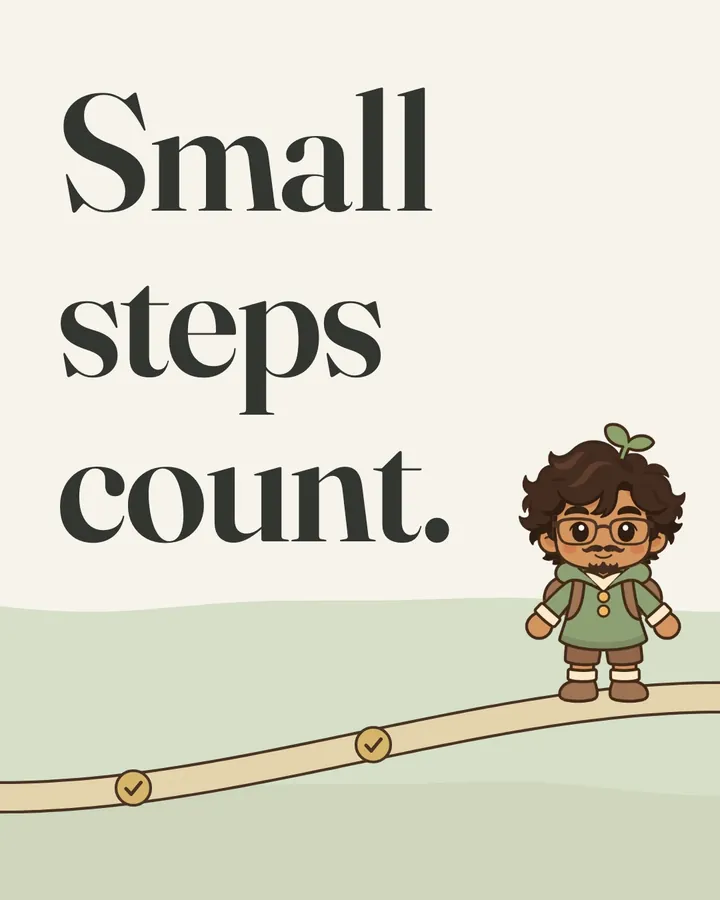
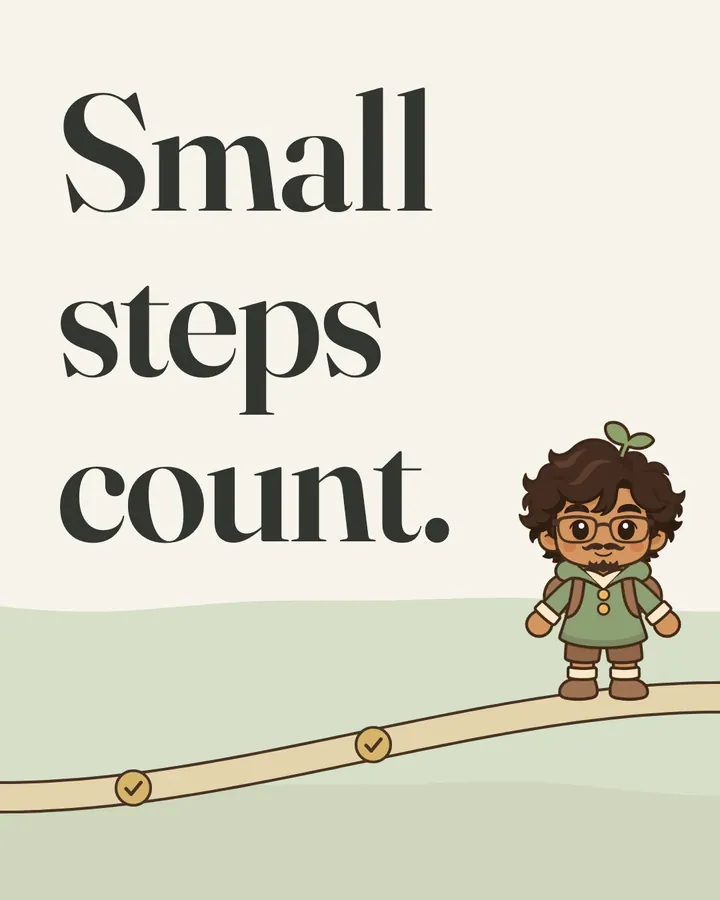
Poster from the complete hook, Privacy section out of the page, owner set
- Hero posters and Open Graph image from frame 66, after "Small steps count." has landed
- Privacy section removed from index.html and main.js; kept in docs/privacy-section.html with
  how to add it back after the network check
- owner: Prasanna-KS-85, so live mode links to that account's latest release; still "soon"
- Screenshot script no longer rewinds videos; adds a hero-only mode

Changed region(s): [[0.7333, 0.4667, 0.9472, 0.8089], [0.7639, 0.4978, 0.7944, 0.5289], [0.7028, 0.56, 0.7333, 0.5911]]

diff --git a/assets/js/main.js b/assets/js/main.js
@@ -1,4 +1,4 @@
-// Little Steps site: the download state, the optional Privacy section, and the videos.
+// Little Steps site: the download state and the videos.
 // No network calls, no storage, no cookies.
 (function () {
   'use strict';
@@ -11,7 +11,7 @@
     if (config.download !== 'live') return; // the HTML already shows the "soon" state
     var url =
       'https://github.com/' +
-      encodeURIComponent(config.owner || 'OWNER') +
+      encodeURIComponent(config.owner || 'Prasanna-KS-85') +
       '/little-steps-site/releases/latest/download/Little-Steps.dmg';
     document.querySelectorAll('[data-download]').forEach(function (soon) {
       var link = document.createElement('a');
@@ -21,14 +21,6 @@
       link.setAttribute('data-download', '');
       soon.replaceWith(link);
     });
-  }
-
-  // ------------------------------------------------------------ privacy section
-  function setupPrivacy() {
-    if (config.privacy !== true) return;
-    var tpl = document.getElementById('privacy-template');
-    if (!tpl) return;
-    tpl.replaceWith(tpl.content.cloneNode(true));
   }
 
   // ------------------------------------------------------------ videos
@@ -120,7 +112,6 @@
   }
 
   setupDownload();
-  setupPrivacy();
   setupHero();
   setupLoops();
 })();

diff --git a/assets/js/config.js b/assets/js/config.js
@@ -1,12 +1,13 @@
 // The site's switches. Change a value here, nothing else.
 //
 // download: 'soon' shows a disabled "Coming soon" button.
-//           'live' links every Download button to the latest GitHub release.
-// owner:    the GitHub account that holds the little-steps-site repository (placeholder until then).
-// privacy:  the Privacy section ("No account. No tracking. Your day stays on your Mac.") stays off
-//           until the network check has passed (docs/site-open-items.md).
+//           'live' links every Download button to
+//           https://github.com/Prasanna-KS-85/little-steps-site/releases/latest/download/Little-Steps.dmg
+// owner:    the GitHub account that holds the little-steps-site repository.
+//
+// The Privacy section is not a switch: it is not in the page until the network check has passed.
+// How to add it then: docs/privacy-section.html.
 window.LITTLE_STEPS_CONFIG = {
   download: 'soon',
-  owner: 'OWNER',
-  privacy: false,
+  owner: 'Prasanna-KS-85',
 };

diff --git a/docs/privacy-section.html b/docs/privacy-section.html
@@ -1,0 +1,20 @@
+<!--
+  Privacy section for index.html. NOT SHIPPED: it stays out of the page until the network check has
+  passed (docs/site-open-items.md).
+
+  To add it back:
+  1. Copy the <section> below into index.html, in place of the comment
+     "<!-- 5. Privacy: not on the page ... -->", which sits between the Rewards and Install sections.
+  2. That's all. The styles are already in assets/css/site.css (.section--follow, .privacy-card),
+     and no script is involved.
+
+  To take it off again, delete the section from index.html.
+-->
+<section class="section section--follow" id="privacy" aria-labelledby="privacy-title">
+  <div class="wrap">
+    <div class="privacy-card">
+      <span class="eyebrow">Privacy</span>
+      <h2 id="privacy-title">No account. No tracking. Your day stays on your Mac.</h2>
+    </div>
+  </div>
+</section>

diff --git a/index.html b/index.html
@@ -259,17 +259,7 @@
         </div>
       </section>
 
-      <!-- 5. Privacy: off until the network check passes (assets/js/config.js, privacy: true). -->
-      <template id="privacy-template">
-        <section class="section section--follow" id="privacy" aria-labelledby="privacy-title">
-          <div class="wrap">
-            <div class="privacy-card">
-              <span class="eyebrow">Privacy</span>
-              <h2 id="privacy-title">No account. No tracking. Your day stays on your Mac.</h2>
-            </div>
-          </div>
-        </section>
-      </template>
+      <!-- 5. Privacy: not on the page until the network check passes (docs/privacy-section.html). -->
 
       <!-- 6. Install and first open -->
       <section class="section section--sage" id="install" aria-labelledby="install-title">

diff --git a/tools/build_assets.py b/tools/build_assets.py
@@ -32,7 +32,7 @@ FPS = 30
 # privacy line ("No account. No tracking...") and then a "[site]" placeholder in the lockup. The
 # privacy claim waits for the network check (docs/site-open-items.md), so it is cut from the loop.
 HERO_END_FRAME = 1174
-POSTER_FRAME = 100  # the hook: "Small steps count." has landed, the companion on the path
+POSTER_FRAME = 66  # the hook: all three words of "Small steps count." have landed (60), before the wave (70)
 
 
 def run(*args: str) -> None:
@@ -95,6 +95,10 @@ def hero() -> None:
     common_v = ["-c:v", "libx264", "-preset", "veryslow", "-profile:v", "high", "-pix_fmt", "yuv420p", "-movflags", "+faststart"]
     ff("-i", str(FILM_169), "-t", dur, "-vf", "scale=1280:720:flags=lanczos", *common_v, "-crf", "25", *common_a, str(VID / "hero-16x9.mp4"))
     ff("-i", str(FILM_45), "-t", dur, "-vf", "scale=720:900:flags=lanczos", *common_v, "-crf", "25", *common_a, str(VID / "hero-4x5.mp4"))
+    hero_posters()
+
+
+def hero_posters() -> None:
     with tempfile.TemporaryDirectory() as tmp:
         for src, tag, size, og in [(FILM_169, "16x9", (1280, 720), True), (FILM_45, "4x5", (720, 900), False)]:
             png = Path(tmp) / f"{tag}.png"
@@ -138,8 +142,13 @@ def loops() -> None:
 
 
 def main() -> None:
+    import sys
+
     for d in (IMG, VID, ICO):
         d.mkdir(parents=True, exist_ok=True)
+    if sys.argv[1:] == ["posters"]:  # only the hero posters and the Open Graph image
+        hero_posters()
+        return
     icons()
     captures()
     hero()

diff --git a/docs/site-open-items.md b/docs/site-open-items.md
@@ -5,11 +5,8 @@ Each one names what would close it.
 
 ## Waiting on a check
 
-1. **Privacy section is off.** The page has the section ("No account. No tracking. Your day stays on
-   your Mac.") inside a `<template>` in `index.html`. It does not render and it is not in the
-   accessibility tree, but it is in the page source. It goes live with `privacy: true` in
-   `assets/js/config.js`, once the network check has passed. If even the source must not carry it until
-   then, delete the template and add it back later.
+1. **Privacy section is not in the page.** Its text is not in any shipped file. The section and the
+   steps to add it back are in `docs/privacy-section.html`; add it once the network check has passed.
 2. **The hero film is cut at 39.1 s, not the full 45.3 s.** From about frame 1176 the v2 film shows the
    same privacy line, and its lockup shows a literal `[site]` placeholder. The loop stops at frame
    1174, the end of the yawn (`HERO_END_FRAME` in `tools/build_assets.py`). To use the full film, the
@@ -24,13 +21,13 @@ Each one names what would close it.
    docs gives a price; the answer follows from the download being a plain GitHub release link. Please
    confirm, or change the answer in `index.html`.
 5. **Release asset name.** Live mode links to
-   `https://github.com/OWNER/little-steps-site/releases/latest/download/Little-Steps.dmg`. The build
-   makes `Little Steps-1.0.0-arm64.dmg`, so the release asset has to be uploaded (or renamed) as
-   `Little-Steps.dmg`, or that link will 404. `OWNER` is still a placeholder (`owner` in `config.js`).
+   `https://github.com/Prasanna-KS-85/little-steps-site/releases/latest/download/Little-Steps.dmg`. The
+   build makes `Little Steps-1.0.0-arm64.dmg`, so the release asset has to be uploaded (or renamed) as
+   `Little-Steps.dmg`, or that link will 404.
 6. **Host and site address.** `og:image` is a relative URL (`og-image.jpg`), and most link previews
    need an absolute one, so set it once the domain is known. `404.html` uses root paths (`/assets/…`):
    these work on Vercel or a custom domain, but not on a GitHub Pages project path
-   (`OWNER.github.io/little-steps-site/`).
+   (`prasanna-ks-85.github.io/little-steps-site/`).
 7. **Headers at the host.** The page sets a strict Content-Security-Policy in a `<meta>` tag (self
    only). `frame-ancestors` and other headers can only be set by the host; add them when deploying.
 8. **No-JS download state.** The download state is applied by `assets/js/main.js`. Without JavaScript

diff --git a/docs/checks.md b/docs/checks.md
@@ -1,4 +1,4 @@
-# Checks (27 November 2026)
+# Checks (27 November 2026, re-run after the poster, Privacy and owner fixes)
 
 Run against `python3 -m http.server 8765 --bind 127.0.0.1`, using headless Google Chrome driven by
 `tools/shoot.mjs` (DevTools protocol, a throwaway profile, cache disabled).
@@ -7,11 +7,17 @@ Run against `python3 -m http.server 8765 --bind 127.0.0.1`, using headless Googl
 
 - `docs/screens/home-390.png`, `home-768.png`, `home-1440.png`
 - `docs/screens/404-390.png`, `404-1440.png`
+- Hero only, as a visitor sees it 3 s after load (`--hero`): `hero-390.png` (the film playing),
+  `hero-1440.png` (the poster; the film starts once you scroll it into view), and
+  `hero-reduced-390.png`, `hero-reduced-1440.png` (reduced motion: the poster, nothing plays)
 
-The checks also covered reduced motion, the 404 page and live mode with Privacy on (screenshots in
-the session scratchpad, not committed). For live mode, `config.js` was switched to `download: 'live'`
-and `privacy: true` for one run and then restored. That run showed the "Download for Mac" link and the
-Privacy section.
+The hero posters are frame 66 of the film, after all three words of "Small steps count." have landed
+(frame 60) and before the wave (70). The half-drawn "Small" in the first screenshots was the video's
+own frame 0, because the screenshot script used to rewind the videos; it no longer does.
+
+Live mode was checked in the first run (`download: 'live'` for one run, then restored), which showed
+the "Download for Mac" link. The Privacy section is no longer in any shipped file: the served
+`index.html` contains no "tracking" text (`docs/privacy-section.html` holds it).
 
 ## Every URL the page loads
 

diff --git a/README.md b/README.md
@@ -18,7 +18,9 @@ Then open http://127.0.0.1:8765/ and stop the server with Ctrl+C when done.
 - `download`: `'soon'` (a disabled "Coming soon" button) or `'live'` (links to the latest GitHub
   release, `Little-Steps.dmg`)
 - `owner`: the GitHub account in that link
-- `privacy`: shows the Privacy section; keep it `false` until the network check has passed
+
+The Privacy section is not in the page. It goes in by hand once the network check has passed: see
+`docs/privacy-section.html`.
 
 ## Files
 
@@ -30,7 +32,7 @@ Then open http://127.0.0.1:8765/ and stop the server with Ctrl+C when done.
 | `assets/fonts/`          | Fraunces and Nunito from the app, with their SIL OFL 1.1 licence texts      |
 | `assets/img`, `video`    | Built by `tools/build_assets.py` from the app and launch repos (read-only)  |
 | `tools/`                 | Dev-only: asset build, contrast check, screenshot and request audit         |
-| `docs/`                  | Open items, check results, screenshots                                      |
+| `docs/`                  | Open items, checks, screenshots, the unshipped Privacy section             |
 
 ## Rebuild the images and videos
 
